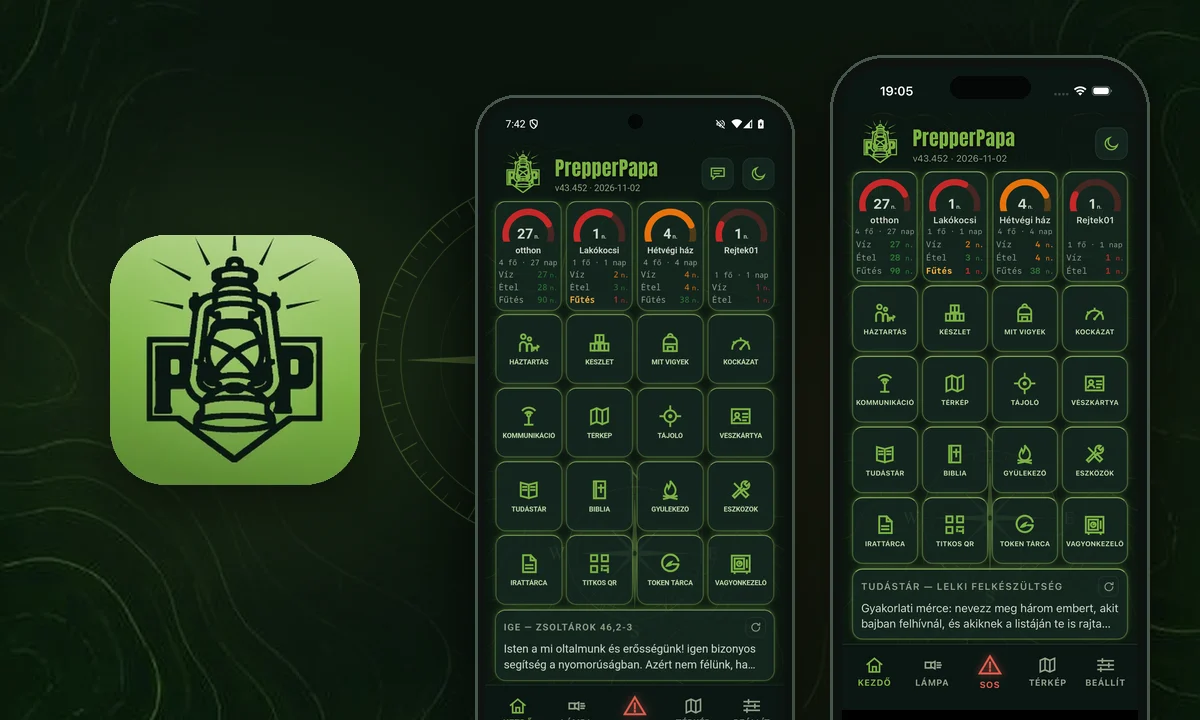
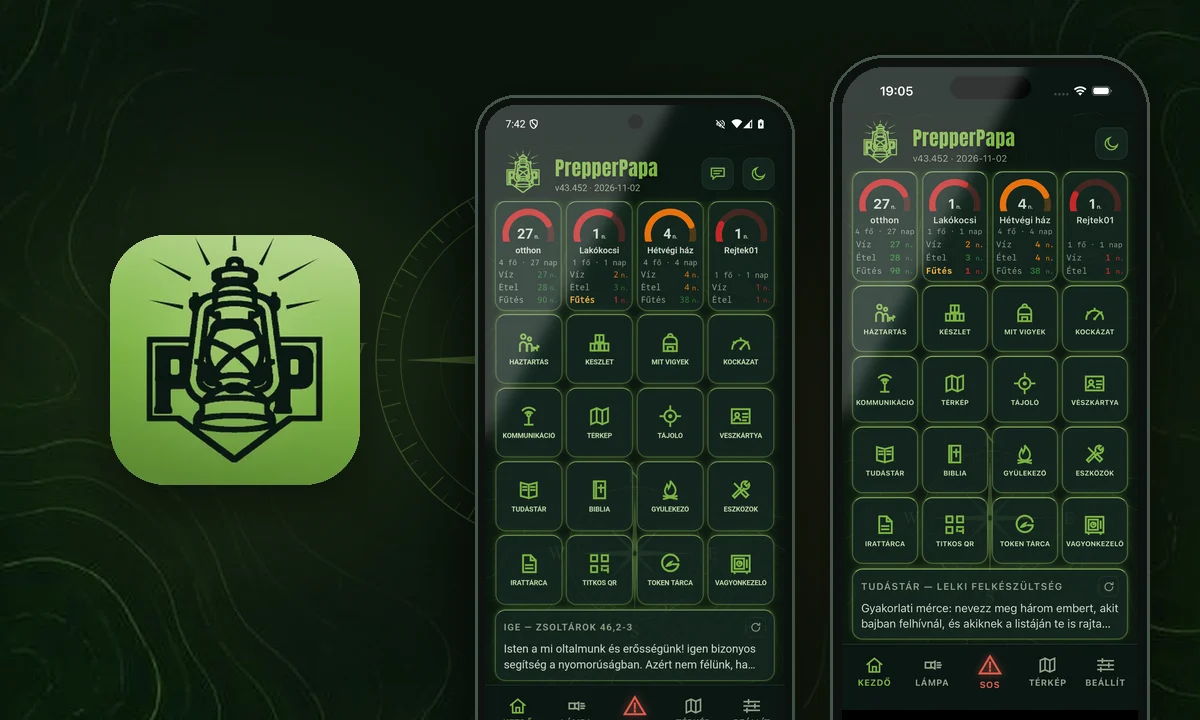
telefonkeret: uveg-tukrozodes a kepernyon (Fonok TG 7631)

Changed region(s): [[0.6783, 0.0917, 0.8633, 0.5806], [0.4008, 0.1222, 0.555, 0.6111]]

diff --git a/app/index.html b/app/index.html
@@ -123,6 +123,9 @@
        box-shadow:0 0 0 1px #50565a,0 0 0 2px #0a0b0c,0 26px 60px rgba(0,0,0,.6)}
   .tel::before{content:"";position:absolute;right:-3px;top:21%;width:3px;height:11%;border-radius:0 3px 3px 0;background:#3c4144}
   .tel .kij{display:block;position:relative;overflow:hidden;border-radius:29px;background:#0B110E}
+  /* glass reflection on the screen (Boss 2026-11-02 TG 7631: more believable) */
+  .tel .kij::before{content:"";position:absolute;inset:0;z-index:3;pointer-events:none;border-radius:inherit;
+       background:linear-gradient(115deg,rgba(255,255,255,.14) 0%,rgba(255,255,255,.06) 30%,rgba(255,255,255,0) 30.5%),linear-gradient(115deg,rgba(255,255,255,0) 62%,rgba(255,255,255,.035) 62.5%,rgba(255,255,255,0) 80%)}
   .tel .sb{display:flex;justify-content:space-between;align-items:center;height:26px;padding:0 16px 0 20px;
        background:#0B110E;color:#e8efe9;font:600 11px/1 system-ui,-apple-system,"Segoe UI",Roboto,sans-serif}
   .tel .sb::before{content:"12:45"}

diff --git a/app/wordlight/index.html b/app/wordlight/index.html
@@ -136,6 +136,9 @@
        box-shadow:0 0 0 1px #50565a,0 0 0 2px #0a0b0c,0 26px 60px rgba(0,0,0,.6)}
   .tel::before{content:"";position:absolute;right:-3px;top:21%;width:3px;height:11%;border-radius:0 3px 3px 0;background:#3c4144}
   .tel .kij{display:block;position:relative;overflow:hidden;border-radius:29px;background:#0B110E}
+  /* glass reflection on the screen (Boss 2026-11-02 TG 7631: more believable) */
+  .tel .kij::before{content:"";position:absolute;inset:0;z-index:3;pointer-events:none;border-radius:inherit;
+       background:linear-gradient(115deg,rgba(255,255,255,.14) 0%,rgba(255,255,255,.06) 30%,rgba(255,255,255,0) 30.5%),linear-gradient(115deg,rgba(255,255,255,0) 62%,rgba(255,255,255,.035) 62.5%,rgba(255,255,255,0) 80%)}
   .tel .sb{display:flex;justify-content:space-between;align-items:center;height:26px;padding:0 16px 0 20px;
        background:#0B110E;color:#e8efe9;font:600 11px/1 system-ui,-apple-system,"Segoe UI",Roboto,sans-serif}
   .tel .sb::before{content:"12:45"}

diff --git a/de/app/index.html b/de/app/index.html
@@ -123,6 +123,9 @@
        box-shadow:0 0 0 1px #50565a,0 0 0 2px #0a0b0c,0 26px 60px rgba(0,0,0,.6)}
   .tel::before{content:"";position:absolute;right:-3px;top:21%;width:3px;height:11%;border-radius:0 3px 3px 0;background:#3c4144}
   .tel .kij{display:block;position:relative;overflow:hidden;border-radius:29px;background:#0B110E}
+  /* glass reflection on the screen (Boss 2026-11-02 TG 7631: more believable) */
+  .tel .kij::before{content:"";position:absolute;inset:0;z-index:3;pointer-events:none;border-radius:inherit;
+       background:linear-gradient(115deg,rgba(255,255,255,.14) 0%,rgba(255,255,255,.06) 30%,rgba(255,255,255,0) 30.5%),linear-gradient(115deg,rgba(255,255,255,0) 62%,rgba(255,255,255,.035) 62.5%,rgba(255,255,255,0) 80%)}
   .tel .sb{display:flex;justify-content:space-between;align-items:center;height:26px;padding:0 16px 0 20px;
        background:#0B110E;color:#e8efe9;font:600 11px/1 system-ui,-apple-system,"Segoe UI",Roboto,sans-serif}
   .tel .sb::before{content:"12:45"}

diff --git a/de/app/wordlight/index.html b/de/app/wordlight/index.html
@@ -136,6 +136,9 @@
        box-shadow:0 0 0 1px #50565a,0 0 0 2px #0a0b0c,0 26px 60px rgba(0,0,0,.6)}
   .tel::before{content:"";position:absolute;right:-3px;top:21%;width:3px;height:11%;border-radius:0 3px 3px 0;background:#3c4144}
   .tel .kij{display:block;position:relative;overflow:hidden;border-radius:29px;background:#0B110E}
+  /* glass reflection on the screen (Boss 2026-11-02 TG 7631: more believable) */
+  .tel .kij::before{content:"";position:absolute;inset:0;z-index:3;pointer-events:none;border-radius:inherit;
+       background:linear-gradient(115deg,rgba(255,255,255,.14) 0%,rgba(255,255,255,.06) 30%,rgba(255,255,255,0) 30.5%),linear-gradient(115deg,rgba(255,255,255,0) 62%,rgba(255,255,255,.035) 62.5%,rgba(255,255,255,0) 80%)}
   .tel .sb{display:flex;justify-content:space-between;align-items:center;height:26px;padding:0 16px 0 20px;
        background:#0B110E;color:#e8efe9;font:600 11px/1 system-ui,-apple-system,"Segoe UI",Roboto,sans-serif}
   .tel .sb::before{content:"12:45"}

diff --git a/en/app/index.html b/en/app/index.html
@@ -123,6 +123,9 @@
        box-shadow:0 0 0 1px #50565a,0 0 0 2px #0a0b0c,0 26px 60px rgba(0,0,0,.6)}
   .tel::before{content:"";position:absolute;right:-3px;top:21%;width:3px;height:11%;border-radius:0 3px 3px 0;background:#3c4144}
   .tel .kij{display:block;position:relative;overflow:hidden;border-radius:29px;background:#0B110E}
+  /* glass reflection on the screen (Boss 2026-11-02 TG 7631: more believable) */
+  .tel .kij::before{content:"";position:absolute;inset:0;z-index:3;pointer-events:none;border-radius:inherit;
+       background:linear-gradient(115deg,rgba(255,255,255,.14) 0%,rgba(255,255,255,.06) 30%,rgba(255,255,255,0) 30.5%),linear-gradient(115deg,rgba(255,255,255,0) 62%,rgba(255,255,255,.035) 62.5%,rgba(255,255,255,0) 80%)}
   .tel .sb{display:flex;justify-content:space-between;align-items:center;height:26px;padding:0 16px 0 20px;
        background:#0B110E;color:#e8efe9;font:600 11px/1 system-ui,-apple-system,"Segoe UI",Roboto,sans-serif}
   .tel .sb::before{content:"12:45"}

diff --git a/en/app/wordlight/index.html b/en/app/wordlight/index.html
@@ -136,6 +136,9 @@
        box-shadow:0 0 0 1px #50565a,0 0 0 2px #0a0b0c,0 26px 60px rgba(0,0,0,.6)}
   .tel::before{content:"";position:absolute;right:-3px;top:21%;width:3px;height:11%;border-radius:0 3px 3px 0;background:#3c4144}
   .tel .kij{display:block;position:relative;overflow:hidden;border-radius:29px;background:#0B110E}
+  /* glass reflection on the screen (Boss 2026-11-02 TG 7631: more believable) */
+  .tel .kij::before{content:"";position:absolute;inset:0;z-index:3;pointer-events:none;border-radius:inherit;
+       background:linear-gradient(115deg,rgba(255,255,255,.14) 0%,rgba(255,255,255,.06) 30%,rgba(255,255,255,0) 30.5%),linear-gradient(115deg,rgba(255,255,255,0) 62%,rgba(255,255,255,.035) 62.5%,rgba(255,255,255,0) 80%)}
   .tel .sb{display:flex;justify-content:space-between;align-items:center;height:26px;padding:0 16px 0 20px;
        background:#0B110E;color:#e8efe9;font:600 11px/1 system-ui,-apple-system,"Segoe UI",Roboto,sans-serif}
   .tel .sb::before{content:"12:45"}

diff --git a/es/app/index.html b/es/app/index.html
@@ -123,6 +123,9 @@
        box-shadow:0 0 0 1px #50565a,0 0 0 2px #0a0b0c,0 26px 60px rgba(0,0,0,.6)}
   .tel::before{content:"";position:absolute;right:-3px;top:21%;width:3px;height:11%;border-radius:0 3px 3px 0;background:#3c4144}
   .tel .kij{display:block;position:relative;overflow:hidden;border-radius:29px;background:#0B110E}
+  /* glass reflection on the screen (Boss 2026-11-02 TG 7631: more believable) */
+  .tel .kij::before{content:"";position:absolute;inset:0;z-index:3;pointer-events:none;border-radius:inherit;
+       background:linear-gradient(115deg,rgba(255,255,255,.14) 0%,rgba(255,255,255,.06) 30%,rgba(255,255,255,0) 30.5%),linear-gradient(115deg,rgba(255,255,255,0) 62%,rgba(255,255,255,.035) 62.5%,rgba(255,255,255,0) 80%)}
   .tel .sb{display:flex;justify-content:space-between;align-items:center;height:26px;padding:0 16px 0 20px;
        background:#0B110E;color:#e8efe9;font:600 11px/1 system-ui,-apple-system,"Segoe UI",Roboto,sans-serif}
   .tel .sb::before{content:"12:45"}

diff --git a/es/app/wordlight/index.html b/es/app/wordlight/index.html
@@ -136,6 +136,9 @@
        box-shadow:0 0 0 1px #50565a,0 0 0 2px #0a0b0c,0 26px 60px rgba(0,0,0,.6)}
   .tel::before{content:"";position:absolute;right:-3px;top:21%;width:3px;height:11%;border-radius:0 3px 3px 0;background:#3c4144}
   .tel .kij{display:block;position:relative;overflow:hidden;border-radius:29px;background:#0B110E}
+  /* glass reflection on the screen (Boss 2026-11-02 TG 7631: more believable) */
+  .tel .kij::before{content:"";position:absolute;inset:0;z-index:3;pointer-events:none;border-radius:inherit;
+       background:linear-gradient(115deg,rgba(255,255,255,.14) 0%,rgba(255,255,255,.06) 30%,rgba(255,255,255,0) 30.5%),linear-gradient(115deg,rgba(255,255,255,0) 62%,rgba(255,255,255,.035) 62.5%,rgba(255,255,255,0) 80%)}
   .tel .sb{display:flex;justify-content:space-between;align-items:center;height:26px;padding:0 16px 0 20px;
        background:#0B110E;color:#e8efe9;font:600 11px/1 system-ui,-apple-system,"Segoe UI",Roboto,sans-serif}
   .tel .sb::before{content:"12:45"}

diff --git a/pl/app/index.html b/pl/app/index.html
@@ -123,6 +123,9 @@
        box-shadow:0 0 0 1px #50565a,0 0 0 2px #0a0b0c,0 26px 60px rgba(0,0,0,.6)}
   .tel::before{content:"";position:absolute;right:-3px;top:21%;width:3px;height:11%;border-radius:0 3px 3px 0;background:#3c4144}
   .tel .kij{display:block;position:relative;overflow:hidden;border-radius:29px;background:#0B110E}
+  /* glass reflection on the screen (Boss 2026-11-02 TG 7631: more believable) */
+  .tel .kij::before{content:"";position:absolute;inset:0;z-index:3;pointer-events:none;border-radius:inherit;
+       background:linear-gradient(115deg,rgba(255,255,255,.14) 0%,rgba(255,255,255,.06) 30%,rgba(255,255,255,0) 30.5%),linear-gradient(115deg,rgba(255,255,255,0) 62%,rgba(255,255,255,.035) 62.5%,rgba(255,255,255,0) 80%)}
   .tel .sb{display:flex;justify-content:space-between;align-items:center;height:26px;padding:0 16px 0 20px;
        background:#0B110E;color:#e8efe9;font:600 11px/1 system-ui,-apple-system,"Segoe UI",Roboto,sans-serif}
   .tel .sb::before{content:"12:45"}

diff --git a/pl/app/wordlight/index.html b/pl/app/wordlight/index.html
@@ -136,6 +136,9 @@
        box-shadow:0 0 0 1px #50565a,0 0 0 2px #0a0b0c,0 26px 60px rgba(0,0,0,.6)}
   .tel::before{content:"";position:absolute;right:-3px;top:21%;width:3px;height:11%;border-radius:0 3px 3px 0;background:#3c4144}
   .tel .kij{display:block;position:relative;overflow:hidden;border-radius:29px;background:#0B110E}
+  /* glass reflection on the screen (Boss 2026-11-02 TG 7631: more believable) */
+  .tel .kij::before{content:"";position:absolute;inset:0;z-index:3;pointer-events:none;border-radius:inherit;
+       background:linear-gradient(115deg,rgba(255,255,255,.14) 0%,rgba(255,255,255,.06) 30%,rgba(255,255,255,0) 30.5%),linear-gradient(115deg,rgba(255,255,255,0) 62%,rgba(255,255,255,.035) 62.5%,rgba(255,255,255,0) 80%)}
   .tel .sb{display:flex;justify-content:space-between;align-items:center;height:26px;padding:0 16px 0 20px;
        background:#0B110E;color:#e8efe9;font:600 11px/1 system-ui,-apple-system,"Segoe UI",Roboto,sans-serif}
   .tel .sb::before{content:"12:45"}

diff --git a/ro/app/index.html b/ro/app/index.html
@@ -123,6 +123,9 @@
        box-shadow:0 0 0 1px #50565a,0 0 0 2px #0a0b0c,0 26px 60px rgba(0,0,0,.6)}
   .tel::before{content:"";position:absolute;right:-3px;top:21%;width:3px;height:11%;border-radius:0 3px 3px 0;background:#3c4144}
   .tel .kij{display:block;position:relative;overflow:hidden;border-radius:29px;background:#0B110E}
+  /* glass reflection on the screen (Boss 2026-11-02 TG 7631: more believable) */
+  .tel .kij::before{content:"";position:absolute;inset:0;z-index:3;pointer-events:none;border-radius:inherit;
+       background:linear-gradient(115deg,rgba(255,255,255,.14) 0%,rgba(255,255,255,.06) 30%,rgba(255,255,255,0) 30.5%),linear-gradient(115deg,rgba(255,255,255,0) 62%,rgba(255,255,255,.035) 62.5%,rgba(255,255,255,0) 80%)}
   .tel .sb{display:flex;justify-content:space-between;align-items:center;height:26px;padding:0 16px 0 20px;
        background:#0B110E;color:#e8efe9;font:600 11px/1 system-ui,-apple-system,"Segoe UI",Roboto,sans-serif}
   .tel .sb::before{content:"12:45"}

diff --git a/ro/app/wordlight/index.html b/ro/app/wordlight/index.html
@@ -136,6 +136,9 @@
        box-shadow:0 0 0 1px #50565a,0 0 0 2px #0a0b0c,0 26px 60px rgba(0,0,0,.6)}
   .tel::before{content:"";position:absolute;right:-3px;top:21%;width:3px;height:11%;border-radius:0 3px 3px 0;background:#3c4144}
   .tel .kij{display:block;position:relative;overflow:hidden;border-radius:29px;background:#0B110E}
+  /* glass reflection on the screen (Boss 2026-11-02 TG 7631: more believable) */
+  .tel .kij::before{content:"";position:absolute;inset:0;z-index:3;pointer-events:none;border-radius:inherit;
+       background:linear-gradient(115deg,rgba(255,255,255,.14) 0%,rgba(255,255,255,.06) 30%,rgba(255,255,255,0) 30.5%),linear-gradient(115deg,rgba(255,255,255,0) 62%,rgba(255,255,255,.035) 62.5%,rgba(255,255,255,0) 80%)}
   .tel .sb{display:flex;justify-content:space-between;align-items:center;height:26px;padding:0 16px 0 20px;
        background:#0B110E;color:#e8efe9;font:600 11px/1 system-ui,-apple-system,"Segoe UI",Roboto,sans-serif}
   .tel .sb::before{content:"12:45"}
